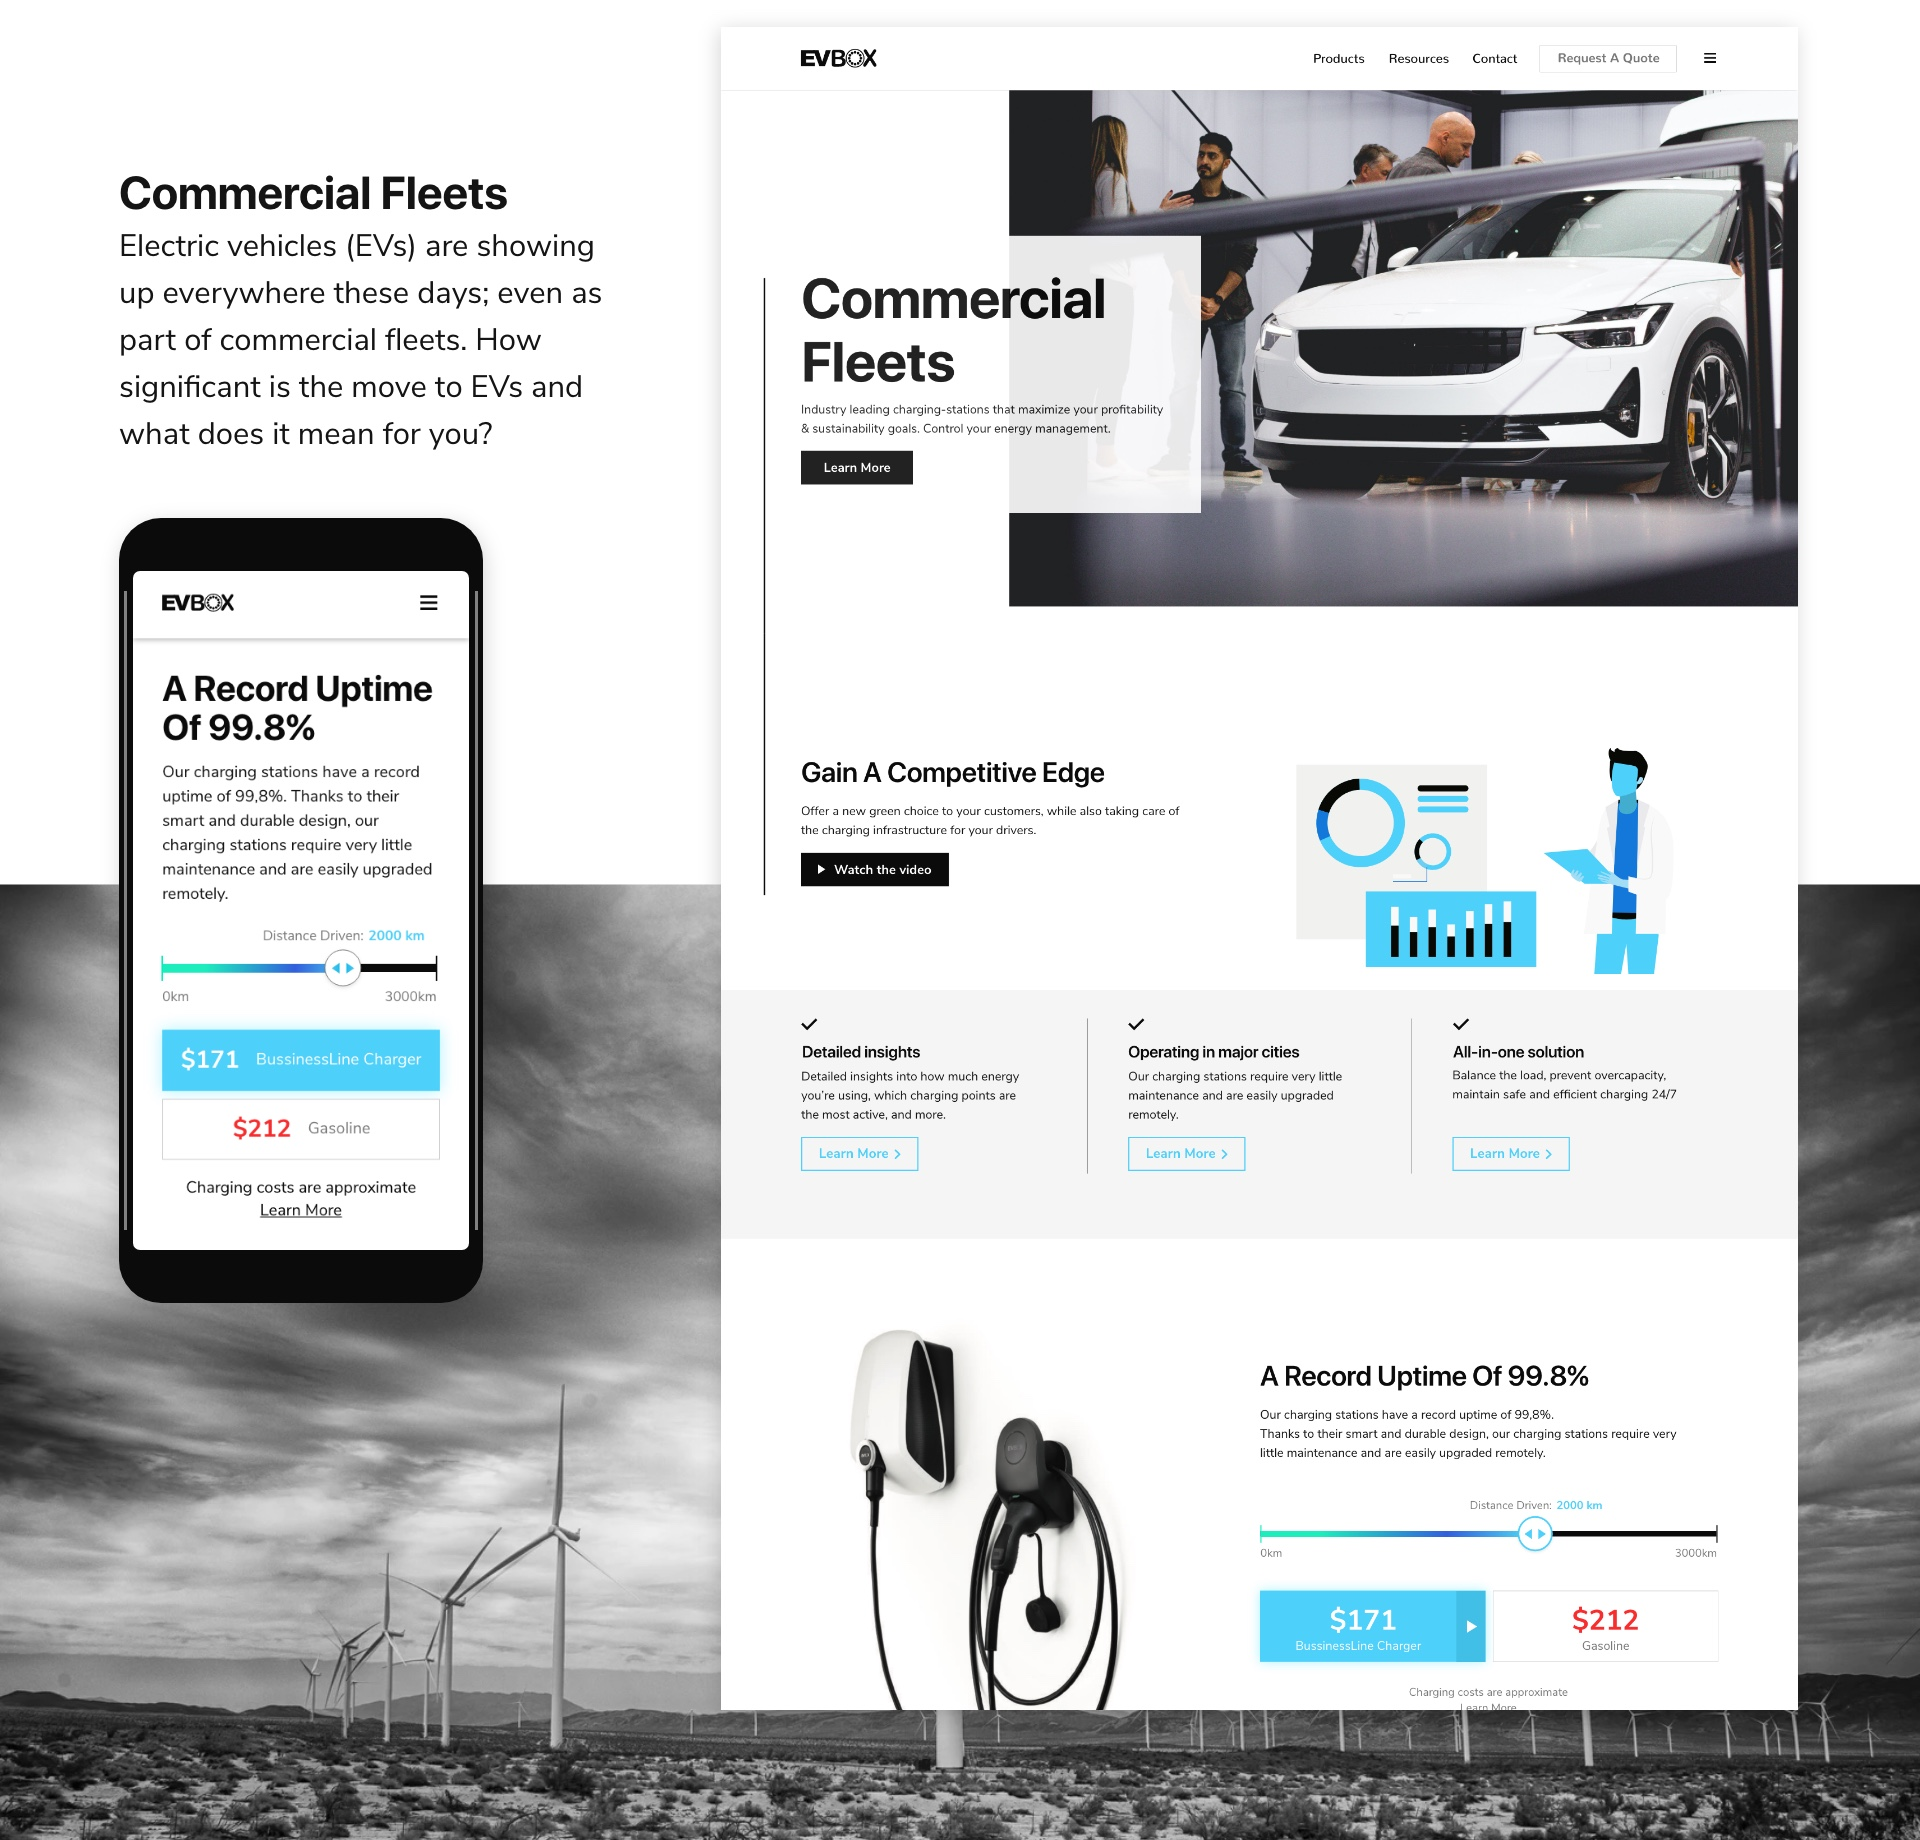
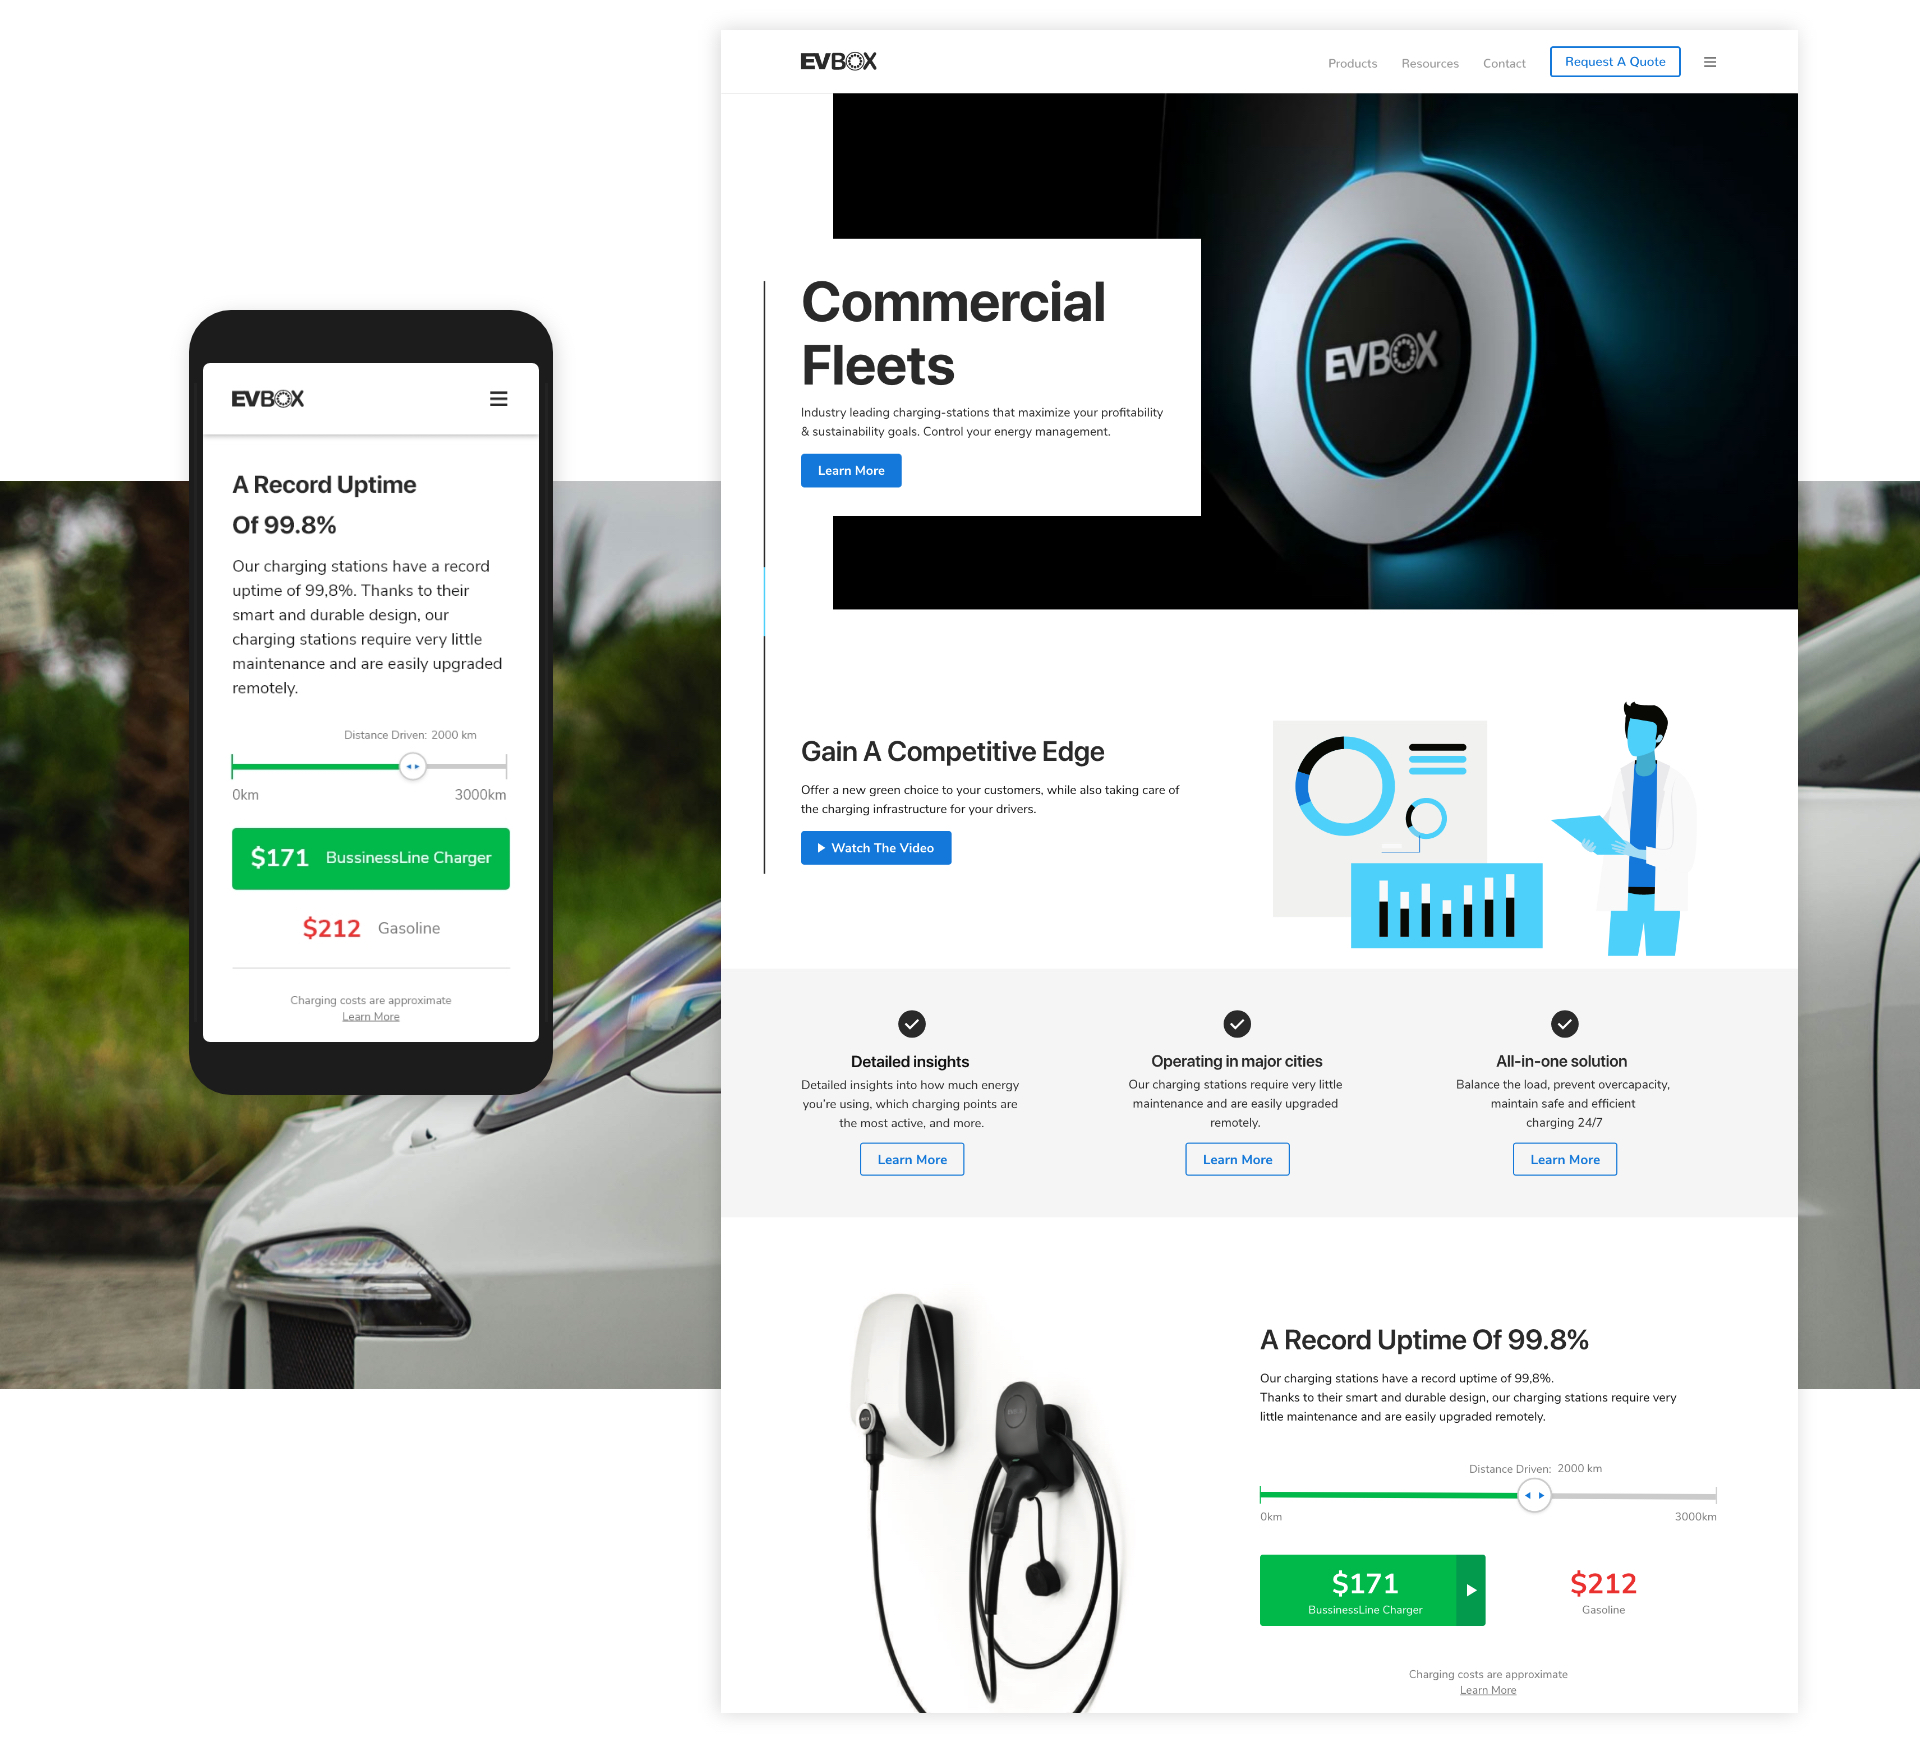
new ev page + new thumbnails

diff --git a/evbox.html b/evbox.html
@@ -130,9 +130,7 @@
                <img class ="img_full"src="img/evbox/Web Folds Static Longer.jpg" alt="please check your internet connection!">
                <img class ="img_full"src="https://mir-s3-cdn-cf.behance.net/project_modules/fs/7fec3892546575.5e4dc22155f04.gif" alt="please check your internet connection!">
 
-                <div class="text_section">
-                    <p> Original page:  <a href="https://evbox.com/en/businesses/commercial-fleets">Commercial Fleets</a> </p>
-                </div>
+                <img class ="img_full"src="img/evbox/beforeafterev.jpg" alt="">
 
             </div>
            

diff --git a/css/styles.css b/css/styles.css
@@ -1289,7 +1289,7 @@ a:hover {
 .item-img-evbox {
     height: 600px;
     width: 100%;
-    background: url('../img/background/evboxnew010.jpg') no-repeat center center;
+    background: url('../img/background/Thumbnail - minimal TC – 5.jpg') no-repeat center center;
     -webkit-background-size: cover;
     background-size: cover;
 }
